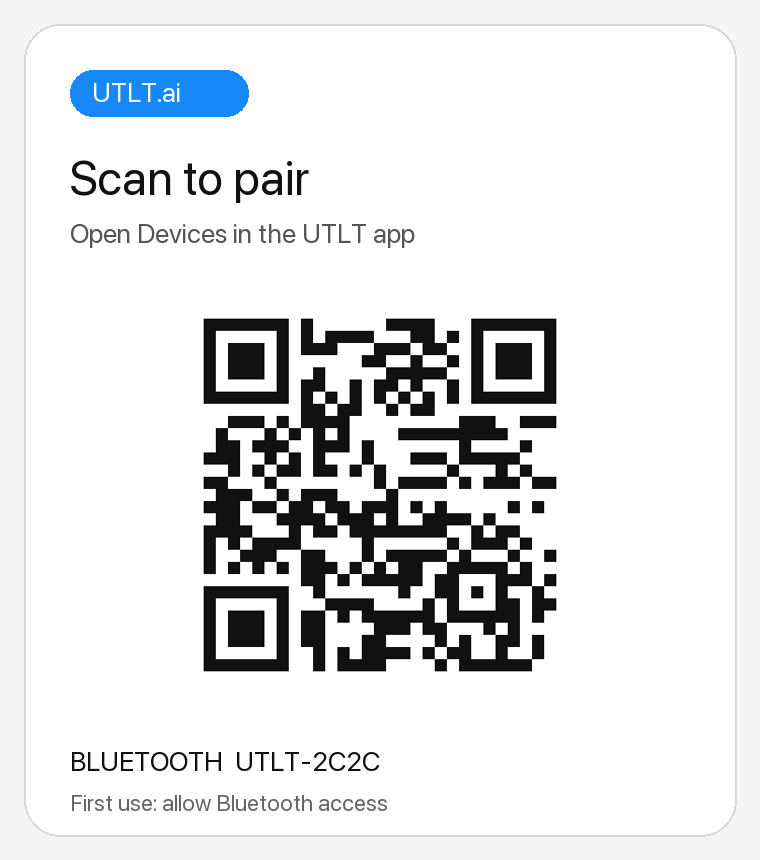
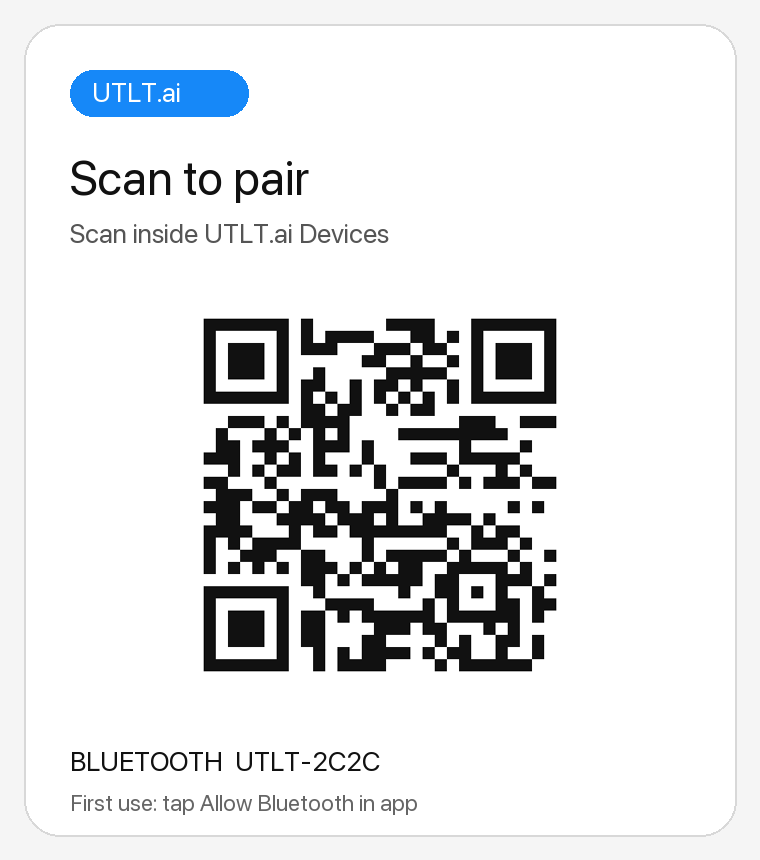
Filter UTLT Bluetooth pairing and fix water conversion

Changed region(s): [[0.0908, 0.2419, 0.5447, 0.3023], [0.2118, 0.907, 0.5447, 0.9674]]

diff --git a/app.js b/app.js
@@ -17,23 +17,21 @@
   const bleReadingUuid = "930a7d60-8489-4b31-9cc6-64ee5e809101";
   const pairingKey = "waterMeterPairingV1";
   const calibrationKey = "waterMeterCalibrationV1";
+  const grantedDeviceKey = "waterMeterGrantedBluetoothV1";
   const demoKey = "waterMeterDemoEnabledV1";
   let savedPairing = "";
   try { savedPairing = localStorage.getItem(pairingKey) || ""; } catch (_error) { /* Pairing still works in this tab. */ }
-  // Midpoint of (15.7–17.3 pulses/s × 38–41 s) / 0.160 L. Confirm with
-  // pulses counted during one complete, measured 160 mL run.
-  const provisionalPulsesPerLitre = 4075;
-  let savedCalibration = provisionalPulsesPerLitre;
+  // Fixed demo conversion from the measured 160 mL timing range.
+  const pulsesPerLitre = 4075;
   let demoEnabled = false;
   try {
     const stored = Number(localStorage.getItem(calibrationKey));
-    if (stored > 0 && stored !== 450 && stored !== 3420) savedCalibration = stored;
-    else {
-      localStorage.setItem(calibrationKey, String(provisionalPulsesPerLitre));
+    if (stored !== pulsesPerLitre) {
       localStorage.removeItem("waterMeterReadingsV1");
     }
+    localStorage.setItem(calibrationKey, String(pulsesPerLitre));
     demoEnabled = localStorage.getItem(demoKey) === "true";
-  } catch (_error) { /* Provisional calibration remains available. */ }
+  } catch (_error) { /* The fixed conversion remains available. */ }
   const state = {
     screen: "home",
     utility: "Water",
@@ -52,9 +50,7 @@
     flowWarning: "",
     rawPulseCount: null,
     pulseRateHz: null,
-    pulsesPerLitre: savedCalibration > 0 && savedCalibration < 100000 ? savedCalibration : provisionalPulsesPerLitre,
-    calibrationStartPulses: null,
-    calibrationStartSession: "",
+    pulsesPerLitre,
     currentMeterSession: "",
     bridgeAvailable: false,
     readings: demoEnabled ? window.UTLTData.demoReadings : [],
@@ -688,23 +684,22 @@
   function pairPage() {
     const ready = Boolean(state.pairedDeviceId);
     const noticeTitle = state.device.connected ? "Water monitor connected" : ready ? "Device recognized" : "Scan your device";
-    const noticeBody = state.device.connected ? "Live flow readings are updating your dashboard." : ready ? `UTLT-${state.pairedDeviceId.slice(-4).toUpperCase()} is ready. Previously allowed devices reconnect automatically. For a first connection, tap the Bluetooth button and select your device.` : "Point your camera at the QR sticker on your ESP32 enclosure.";
+    const noticeBody = state.device.connected ? "Live flow readings are updating your dashboard." : ready ? `UTLT-${state.pairedDeviceId.slice(-4).toUpperCase()} recognized. If this phone has connected before, it will reconnect automatically. Otherwise, tap Allow Bluetooth and select the matching device in Chrome's system chooser.` : "Point your camera at the QR sticker on your ESP32 enclosure.";
     return `<section class="utlt-pair-page">
       <div class="utlt-pair-illustration">${icon("bluetooth", 34)}</div>
       <p class="utlt-eyebrow">DEVICE SETUP</p>
       <h1>Connect your water monitor</h1>
       <p class="utlt-pair-intro">Scan your device sticker once, then see live water use over Bluetooth. Use Chrome on Android or Bluefy on iPhone.</p>
       ${/iPhone|iPad|iPod/i.test(navigator.userAgent) && !navigator.bluetooth?.requestDevice ? '<p class="utlt-flow-warning">iPhone Chrome cannot connect to Bluetooth devices. Open this same website in <a href="https://apps.apple.com/app/bluefy-web-ble-browser/id1492822055">Bluefy</a> to pair.</p>' : ''}
-      <div class="utlt-pair-notice ${state.device.connected ? "is-ready" : ""}" role="status"><strong>${noticeTitle}</strong><span>${noticeBody}</span></div>
+      <div class="utlt-pair-notice ${state.device.connected ? "is-ready" : ready ? "is-scanned" : ""}" role="status"><strong>${noticeTitle}</strong><span>${noticeBody}</span></div>
       ${state.qrScanning ? '<video class="utlt-qr-preview" id="utlt-qr-preview" autoplay playsinline muted aria-label="Camera view for device QR code"></video>' : ''}
-      ${ready && !state.device.connected ? '<button class="utlt-primary-button utlt-connect-button" type="button" data-action="connect-ble">Connect to UTLT-' + state.pairedDeviceId.slice(-4).toUpperCase() + '</button>' : ''}
-      <button class="utlt-primary-button" type="button" data-action="${state.qrScanning ? "stop-qr" : "scan-qr"}">${state.qrScanning ? "Stop scanning" : ready ? "Scan another device QR" : "Scan device QR"}</button>
-      <label class="utlt-qr-photo">Or use a camera photo<input type="file" id="utlt-qr-photo" accept="image/*" capture="environment" aria-label="Take a photo of the device QR code"></label>
-      ${state.rawPulseCount !== null ? `<div class="utlt-meter-diagnostics"><strong>Sensor diagnostics</strong><span>Total pulses: ${state.rawPulseCount.toLocaleString("en-IN")}</span><span>Pulse speed: ${state.pulseRateHz === null ? "waiting for next packet" : `${state.pulseRateHz.toFixed(1)} per second`}</span><small>App conversion: ${Math.round(state.pulsesPerLitre).toLocaleString("en-IN")} pulses = 1 litre${state.pulsesPerLitre === provisionalPulsesPerLitre ? " · provisional" : ""}</small></div>` : ''}
-      ${state.device.connected ? `<div class="utlt-calibration"><strong>Measured-volume calibration</strong><p>The current 4,075 pulses/L estimate comes from your 15.7–17.3 pulses/s and 38–41 s for 160 mL. For a precise value, keep the sensor connected, start with the pump off, then collect exactly 160 mL. Stop the pump before tapping Finish.</p><button type="button" data-action="${state.calibrationStartPulses === null ? "start-calibration" : "finish-calibration"}">${state.calibrationStartPulses === null ? "Start measured test" : "Finish and enter mL"}</button>${state.calibrationStartPulses !== null ? `<small>Starting pulse count: ${state.calibrationStartPulses.toLocaleString("en-IN")}</small>` : ''}</div>` : ''}
+      ${ready && !state.device.connected ? '<button class="utlt-primary-button utlt-connect-button" type="button" data-action="connect-ble">Allow Bluetooth for UTLT-' + state.pairedDeviceId.slice(-4).toUpperCase() + '</button>' : ''}
+      <button class="utlt-primary-button ${ready ? "utlt-scan-again" : ""}" type="button" data-action="${state.qrScanning ? "stop-qr" : "scan-qr"}">${state.qrScanning ? "Stop scanning" : ready ? "Scan another device QR" : "Scan device QR"}</button>
+      ${!ready || state.qrScanning ? '<label class="utlt-qr-photo">Or use a camera photo<input type="file" id="utlt-qr-photo" accept="image/*" capture="environment" aria-label="Take a photo of the device QR code"></label>' : ''}
+      <div class="utlt-meter-diagnostics"><strong>Water conversion</strong><span>4,075 pulses = 1 litre</span>${state.rawPulseCount !== null ? `<span>Total pulses: ${state.rawPulseCount.toLocaleString("en-IN")}</span><span>Pulse speed: ${state.pulseRateHz === null ? "waiting for next packet" : `${state.pulseRateHz.toFixed(1)} per second`}</span>` : ""}<small>Based on your 160 mL timing test; this is an estimate.</small></div>
       ${state.flowWarning ? `<p class="utlt-flow-warning" role="alert">${escapeHtml(state.flowWarning)}</p>` : state.flowRateLpm !== null ? `<p class="utlt-pair-feedback">Measured flow: ${state.flowRateLpm.toFixed(2)} L/min</p>` : ''}
-      ${state.pairStatus ? `<p class="utlt-pair-feedback" role="status">${escapeHtml(state.pairStatus)}</p>` : ''}
-      <button class="utlt-reset-readings" type="button" data-action="reset-meter-readings">Clear this phone’s demo readings</button>
+      ${state.pairStatus && !state.pairStatus.startsWith("QR verified") ? `<p class="utlt-pair-feedback" role="status">${escapeHtml(state.pairStatus)}</p>` : ''}
+      <button class="utlt-reset-readings" type="button" data-action="reset-meter-readings">Clear saved water readings</button>
       <h2>Three steps</h2>
       <ol class="utlt-pair-steps">
         <li><span>1</span><div><strong>Power your monitor</strong><small>Connect the ESP32 to a USB power bank. If readings look too fast, test the pump on a separate charger.</small></div></li>
@@ -895,9 +890,16 @@
       state.pairStatus = "That is not a UTLT Bluetooth sticker.";
       return false;
     }
-    state.pairedDeviceId = match[1].toLowerCase();
+    const scannedId = match[1].toLowerCase();
+    if (state.pairedDeviceId && state.pairedDeviceId !== scannedId && bleDevice?.gatt?.connected) {
+      bleDevice.gatt.disconnect();
+      bleDevice = null;
+      bleCharacteristic = null;
+      state.device.connected = false;
+    }
+    state.pairedDeviceId = scannedId;
     try { localStorage.setItem(pairingKey, state.pairedDeviceId); } catch (_error) { /* Session pairing still works. */ }
-    state.pairStatus = `Found UTLT-${state.pairedDeviceId.slice(-4).toUpperCase()}. Reconnecting if already allowed; otherwise tap Connect.`;
+    state.pairStatus = `QR verified for UTLT-${state.pairedDeviceId.slice(-4).toUpperCase()}. Reconnecting if already allowed; otherwise tap Allow Bluetooth.`;
     stopQrScanner();
     render(true);
     tryAutoConnectBluetooth();
@@ -993,12 +995,8 @@
       return;
     }
     state.currentMeterSession = session;
-    if (state.calibrationStartPulses !== null && state.calibrationStartSession !== session) {
-      state.calibrationStartPulses = null;
-      state.pairStatus = "The ESP32 restarted during calibration. Start a new measured test.";
-    }
     applyStandaloneReading({ mode: "standalone", session, totalPulses: value.getUint32(12, true), pulsesPerLitre: state.pulsesPerLitre });
-    if (!state.pairStatus.includes("restarted during calibration")) state.pairStatus = "Bluetooth connected. Live readings are updating.";
+    state.pairStatus = "Bluetooth connected. Live readings are updating.";
     if (!root.querySelector(".utlt-auth-screen")) render(true);
   }
 
@@ -1020,6 +1018,7 @@
       }
       bleDevice = device;
       bleCharacteristic = characteristic;
+      try { localStorage.setItem(grantedDeviceKey, JSON.stringify({ qrId: state.pairedDeviceId, bluetoothId: device.id })); } catch (_error) { /* Reconnection can still match by name. */ }
       device.ongattserverdisconnected = () => {
         if (bleDevice !== device) return;
         bleCharacteristic = null;
@@ -1044,14 +1043,15 @@
     if (!state.pairedDeviceId || bleConnecting || bleDevice?.gatt?.connected || !navigator.bluetooth?.getDevices) return;
     try {
       const granted = await navigator.bluetooth.getDevices();
-      const suffix = state.pairedDeviceId.slice(-4).toUpperCase();
-      const matches = granted.filter(device => device.name === `UTLT-${suffix}` || device.name === "MPY ESP32");
-      if (matches.length === 1) await connectSelectedBluetoothDevice(matches[0]);
-      else if (matches.length === 0 && granted.length === 1) await connectSelectedBluetoothDevice(granted[0]);
-      else if (matches.length > 1) {
-        const exact = matches.find(device => device.name === `UTLT-${suffix}`);
-        if (exact) await connectSelectedBluetoothDevice(exact);
+      let remembered = {};
+      try { remembered = JSON.parse(localStorage.getItem(grantedDeviceKey) || "{}"); } catch (_error) { /* Fall back to advertised name. */ }
+      if (remembered.qrId === state.pairedDeviceId) {
+        const match = granted.find(device => device.id === remembered.bluetoothId);
+        if (match) { await connectSelectedBluetoothDevice(match); return; }
       }
+      const suffix = state.pairedDeviceId.slice(-4).toUpperCase();
+      const matches = granted.filter(device => device.name === `UTLT-${suffix}`);
+      if (matches.length === 1) await connectSelectedBluetoothDevice(matches[0]);
     } catch (_error) { /* The manual chooser remains available. */ }
   }
 
@@ -1062,13 +1062,13 @@
       render(true);
       return;
     }
-    // Some Android phones show a cached GAP name (for example "MPY ESP32") instead
-    // of the current advertisement name. Verify the QR identity from the packet.
-    // The chooser must open directly from this button tap; do not await first.
-    navigator.bluetooth.requestDevice({ acceptAllDevices: true, optionalServices: [bleServiceUuid] })
+    // The chooser must open directly from this button tap; camera decoding is
+    // asynchronous and cannot carry the browser's required user activation.
+    const expectedName = `UTLT-${state.pairedDeviceId.slice(-4).toUpperCase()}`;
+    navigator.bluetooth.requestDevice({ filters: [{ name: expectedName }], optionalServices: [bleServiceUuid] })
       .then(connectSelectedBluetoothDevice)
       .catch(error => {
-        state.pairStatus = error.name === "NotFoundError" ? "No device selected. Look for UTLT-2C2C or MPY ESP32 with the powered board nearby." : `Bluetooth connection failed: ${error.message || error.name}`;
+        state.pairStatus = error.name === "NotFoundError" ? `No ${expectedName} selected. Make sure the ESP32 is powered, nearby, and advertising that name.` : `Bluetooth connection failed: ${error.message || error.name}`;
         render(true);
       });
   }
@@ -1093,32 +1093,6 @@
         state.usingDemo = state.readings.length === 0;
       }
       try { localStorage.setItem(demoKey, String(state.demoEnabled)); } catch (_error) { /* Session toggle still works. */ }
-      render(true);
-      return;
-    }
-    if (action === "start-calibration") {
-      if (state.rawPulseCount === null) return;
-      state.calibrationStartPulses = state.rawPulseCount;
-      state.calibrationStartSession = state.currentMeterSession;
-      state.pairStatus = "Collect a measured amount, then stop the pump and tap Finish.";
-      render(true);
-      return;
-    }
-    if (action === "finish-calibration") {
-      const measuredMl = Number(prompt("How many millilitres did you collect?", "160"));
-      if (!Number.isFinite(measuredMl) || measuredMl <= 0 || measuredMl > 10000) { state.pairStatus = "Enter a measured amount between 1 and 10,000 mL."; render(true); return; }
-      const pulseDelta = state.rawPulseCount - state.calibrationStartPulses;
-      if (!Number.isSafeInteger(pulseDelta) || pulseDelta < 10) { state.pairStatus = "Too few pulses to calibrate. Check the flow and try again."; render(true); return; }
-      const calibrated = pulseDelta * 1000 / measuredMl;
-      if (calibrated >= 100000) { state.pairStatus = "Pulse count is too high. Check for signal noise before calibrating."; render(true); return; }
-      state.pulsesPerLitre = calibrated;
-      state.calibrationStartPulses = null;
-      state.calibrationStartSession = "";
-      state.flowWarning = "";
-      try { localStorage.setItem(calibrationKey, String(calibrated)); localStorage.removeItem("waterMeterReadingsV1"); } catch (_error) { /* Calibration remains for this tab. */ }
-      state.readings = [];
-      state.usingDemo = false;
-      state.pairStatus = `Saved ${Math.round(calibrated).toLocaleString("en-IN")} pulses per litre for this phone. Previous estimates were cleared; the next packet sets a fresh baseline.`;
       render(true);
       return;
     }
@@ -1273,7 +1247,6 @@
     const sameSession = saved.session === payload.session && Number.isSafeInteger(saved.lastPulses) && saved.lastPulses <= total;
     const previous = sameSession ? saved.lastPulses : total;
     const elapsedMs = sameSession && Number.isFinite(saved.lastObservedAt) ? now - saved.lastObservedAt : 0;
-    const pulsesPerLitre = Number(payload.pulsesPerLitre) || provisionalPulsesPerLitre;
     const rawDelta = total - previous;
     const rateLpm = elapsedMs >= 500 ? rawDelta * 60000 / (pulsesPerLitre * elapsedMs) : 0;
     const impossibleFlow = elapsedMs >= 500 && rateLpm > 6; // Sensor is rated to 5 L/min.

diff --git a/styles.css b/styles.css
@@ -303,6 +303,7 @@ img { max-width: 100%; }
 }
 .utlt-pair-notice span { font-size: 13px; opacity: .9; }
 .utlt-pair-notice.is-ready { border-color: var(--utlt-good); background: var(--utlt-good-bg); color: var(--utlt-good-ink); }
+.utlt-pair-notice.is-scanned { border-color: var(--utlt-blue); background: var(--utlt-panel); color: var(--utlt-text); }
 .utlt-pair-notice.is-preview { border-color: var(--utlt-blue); background: var(--utlt-panel); color: var(--utlt-text); }
 .utlt-pair-page h2 { margin-bottom: 14px; font-size: 18px; letter-spacing: -.3px; }
 .utlt-pair-steps { display: flex; flex-direction: column; gap: 16px; margin: 0 0 26px; padding: 0; list-style: none; }
@@ -313,6 +314,7 @@ img { max-width: 100%; }
 .utlt-pair-steps strong { font-size: 14.5px; }
 .utlt-pair-steps small { color: var(--utlt-muted); font-size: 13px; line-height: 1.45; }
 .utlt-pair-page .utlt-primary-button { width: 100%; }
+.utlt-pair-page .utlt-scan-again { margin-top: 10px; border: 1px solid var(--utlt-border); background: var(--utlt-card); color: var(--utlt-accent); }
 .utlt-qr-preview { display: block; width: 100%; max-height: 290px; margin: 0 0 14px; border: 1px solid var(--utlt-border); border-radius: 18px; background: #0b0f14; object-fit: cover; }
 .utlt-connect-button { margin-top: 10px; }
 .utlt-pair-feedback { margin: 12px 0 20px; color: var(--utlt-muted); font-size: 13px; line-height: 1.45; }

diff --git a/index.html b/index.html
@@ -21,10 +21,10 @@
     @keyframes utlt-splash-pulse { 50% { transform: scale(.92); opacity: .8; } }
     @media (prefers-reduced-motion: reduce) { .utlt-splash span { animation: none; } }
   </style>
-  <link rel="stylesheet" href="./styles.css?v=app-contrast-1">
-  <script defer src="./data.js?v=app-contrast-1"></script>
-  <script defer src="./vendor/jsQR.js?v=app-contrast-1"></script>
-  <script defer src="./app.js?v=app-contrast-1"></script>
+  <link rel="stylesheet" href="./styles.css?v=app-pair-3">
+  <script defer src="./data.js?v=app-pair-3"></script>
+  <script defer src="./vendor/jsQR.js?v=app-pair-3"></script>
+  <script defer src="./app.js?v=app-pair-3"></script>
 </head>
 <body>
   <!-- The app replaces this loading screen as soon as it starts -->

diff --git a/sw.js b/sw.js
@@ -1,4 +1,4 @@
-const CACHE = "utlt-shell-v3";
+const CACHE = "utlt-shell-v4";
 const SHELL = [
   "./", "./index.html", "./styles.css", "./data.js", "./app.js",
   "./vendor/jsQR.js", "./manifest.webmanifest", "./assets/utlt-icon.svg",

diff --git a/tools/generate_device_sticker.py b/tools/generate_device_sticker.py
@@ -35,10 +35,10 @@ except OSError:
 draw.rounded_rectangle((70, 70, 248, 116), radius=23, fill="#1688f8")
 draw.text((92, 75), "UTLT.ai", font=label, fill="white")
 draw.text((70, 148), "Scan to pair", font=title, fill="#111111")
-draw.text((70, 216), "Open Devices in the UTLT app", font=label, fill="#555555")
+draw.text((70, 216), "Scan inside UTLT.ai Devices", font=label, fill="#555555")
 canvas.paste(code, ((760 - code.width) // 2, 270))
 draw.text((70, 744), "BLUETOOTH  " + name, font=label, fill="#111111")
-draw.text((70, 788), "First use: allow Bluetooth access", font=small, fill="#666666")
+draw.text((70, 788), "First use: tap Allow Bluetooth in app", font=small, fill="#666666")
 output = Path(__file__).resolve().parents[1] / "assets" / (name + "-pairing-qr.png")
 canvas.save(output)
 print(output)

diff --git a/README.md b/README.md
@@ -7,10 +7,10 @@ The GitHub Pages app is the phone interface. The ESP32 runs `esp32/main.py` and 
 1. Power the ESP32 from the USB power bank. It advertises as **UTLT-2C2C** on the current board.
 2. Open the GitHub Pages app in **Chrome on Android** or **Bluefy on iPhone** over HTTPS, then open **Devices**.
 3. Tap **Scan device QR** and point the camera at [this board's sticker](assets/UTLT-2C2C-pairing-qr.png). Allow camera access. In Bluefy, **Or use a camera photo** is available if live camera scanning does not work.
-4. On the first connection, tap **Connect Bluetooth**, choose **UTLT-2C2C** (or a cached **MPY ESP32** name) in the browser's Bluetooth prompt, and allow the connection. After permission is granted, the app tries to reconnect automatically when opened again.
-5. The dashboard reads the meter every two seconds. Pulse counts become litres using a **provisional 4,075 pulses per litre** conversion. The observed 15.7–17.3 pulses/s and 38–41 s to fill 160 mL imply roughly 3,730–4,430 pulses/L; 4,075 is the midpoint estimate, not a measurement of the exact pulse count over one fill. Pump off should show no increase; pump on should make the total rise. In a recirculating demo, each lap is counted as simulated usage.
+4. On the first connection, tap **Allow Bluetooth for UTLT-2C2C**, choose **UTLT-2C2C** in Chrome's Bluetooth prompt, and allow the connection. The chooser is filtered to that exact name, so unrelated Bluetooth devices should not appear. After permission is granted, the app remembers that browser device and tries to reconnect automatically when opened again.
+5. The dashboard reads the meter every two seconds. The app always converts at **4,075 pulses per litre**. The observed 15.7–17.3 pulses/s and 38–41 s to fill 160 mL imply roughly 3,730–4,430 pulses/L; 4,075 is a working estimate, not a direct pulse count over one fill. Pump off should show no increase; pump on should make the total rise. In a recirculating demo, each lap is counted as simulated usage.
 
-Chrome camera and Bluetooth permissions must be allowed. The scanned device ID is remembered on that phone. A new device requires the browser's one-time Bluetooth chooser; previously granted devices can reconnect automatically when the app is visible. Keep the page open for live readings. The dashboard starts empty until a device connects. For a sample dashboard, use **Devices → Explore with demo data** while disconnected; live data turns demo mode off automatically. Google account, Friends, and Family features require internet; the meter and water charts do not need them after the page loads. The QR contains the ESP32's public ID, **not** a Wi-Fi password. It identifies the device in the browser but does not provide secure ownership authentication; that is future product work.
+Chrome camera and Bluetooth permissions must be allowed. The scanned device ID is remembered on that phone. A new device requires one tap after scanning to open Chrome's Bluetooth chooser; scanning the QR alone cannot summon an Android OS pairing prompt from a website. Previously granted devices reconnect automatically when the app is visible and Chrome still has permission. Keep the page open for live readings. The dashboard starts empty until a device connects. For a sample dashboard, use **Devices → Explore with demo data** while disconnected; live data turns demo mode off automatically. Google account, Friends, and Family features require internet; the meter and water charts do not need them after the page loads. The QR contains the ESP32's public ID, **not** a Wi-Fi password. It identifies the device in the browser but does not provide secure ownership authentication; that is future product work.
 
 The mini flow sensor is specified for 0.5–5 L/min. The app ignores intervals above 6 L/min and shows a sensor warning instead of adding impossible litres. If readings rose falsely during a demo, use **Devices → Clear this phone's demo readings**, then reconnect. If the warning appears only while the pump is on, test the pump on a separate charger or power bank while keeping the ESP32 on its own 5 V USB supply. Check the sensor red/black/yellow wiring, converter HV/LV rails, and common ground; an app filter does not repair a noisy electrical signal.
 
@@ -20,11 +20,11 @@ The Devices screen also shows the raw pulse count and pulses per second. A displ
 
 For the laptop-only first-pulse test, leave the flow sensor wired and powered, turn the pump **off**, and run `./.venv/bin/python tools/calibrate_laptop.py` in a normal VS Code terminal. When it prints READY, turn on the pump and collect water at the sensor outlet. The timer starts on the first detected pulse. At exactly 160 mL, stop the pump and press `u` **without Enter** in that same Mac terminal. It prints elapsed seconds, pulse count, flow, and pulses/L. It automatically resets the ESP32 to the normal Bluetooth firmware afterward. Do not unplug and replug the sensor's exposed jumper wires to start the timer.
 
-`esp32/calibrate_160ml.py` is a temporary interactive MicroPython script. It uses the provisional 3,260 pulses/L from the earlier 160 mL run, so its `DONE` mark is only an estimate. It cannot change the physical pulse rate or pump speed. Upload the script to the ESP32 as `calibrate_160ml.py`, open the MicroPython REPL, interrupt `main.py` with Ctrl-C, then enter `import calibrate_160ml`. Type `u` and Enter to start. Stop the pump when a measuring cup actually contains 160 mL; enter your measured elapsed time as five digits `SSMMM` (for example, `36500` for 36.500 seconds). The script prints the actual L/min and a new pulses/L value, which is valid only if exactly 160 mL passed through the sensor. Reset the board afterward to resume the BLE app. When the pump is powered manually, the delay between typing `u` and starting water flow adds timing error.
+`esp32/calibrate_160ml.py` is a temporary interactive MicroPython script for a separate timing experiment. It does not alter the app's fixed 4,075 pulses/L conversion. Upload it to the ESP32 as `calibrate_160ml.py`, open the MicroPython REPL, interrupt `main.py` with Ctrl-C, then enter `import calibrate_160ml`. Reset the board afterward to resume the BLE app.
 
 The optional `USE_MOSFET` setting in this script is **False** until the pump switch is wired. For the Robocraze 15A/400W module, follow the printed terminal labels: 5 V pump supply to `DC+`/`DC-`, pump leads to `OUT+`/`OUT-`, ESP32 GPIO26 to `TRIG`/`PWM+`, and ESP32 GND to the module's signal `GND` and pump supply negative. The ESP32 USB supply is separate from the pump's 5 V feed; never power the pump from GPIO26 or the 3V3 pin. Place a 1N4007 diode directly across the pump leads, stripe/band at pump positive and the other end at pump negative. It absorbs the motor's turn-off voltage spike. This diode is for on/off switching; do not use high-frequency PWM speed control with this setup. Check the actual module's labels before connecting power.
 
-For a measured-volume calibration, keep the ESP32 connected in Devices. Divert the sensor outlet into a measuring container, tap **Start measured test**, collect a known amount, stop the pump, then tap **Finish and enter mL**. The app computes pulses divided by litres and saves that value on the current phone. Earlier estimates are cleared because they used a different conversion. Repeat at another flow rate to check consistency. The current ~0.2–0.3 L/min demo flow is below the sensor's rated minimum, so calibration there is only a practical demo estimate, not a guarantee across other flows.
+The current ~0.2–0.3 L/min demo flow is below the sensor's rated minimum, so 4,075 pulses/L is only a practical demo estimate, not a guarantee across other flows.
 
 The BLE path has been checked from a computer: the board advertised `UTLT-2C2C`, connected, and returned a 16-byte meter packet. Camera scanning and the Bluetooth permission prompt still need a physical test on each phone/browser.
 
